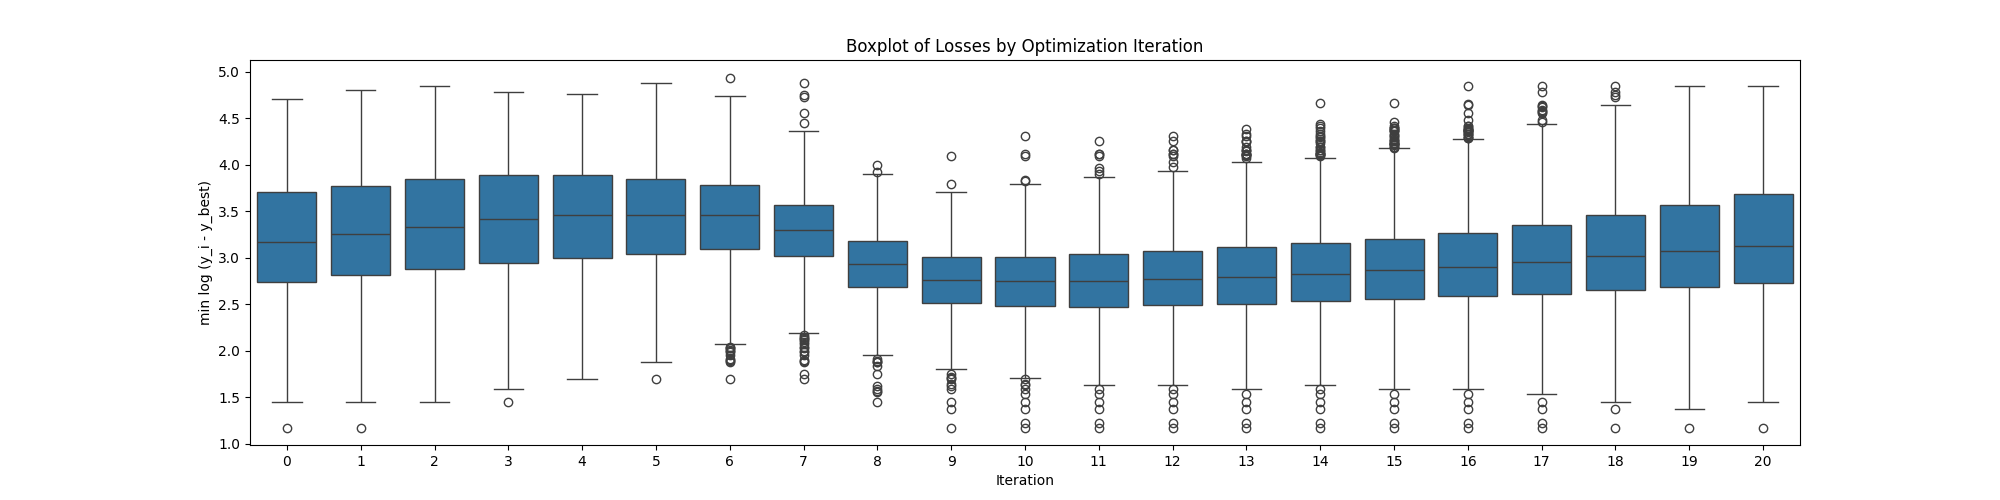
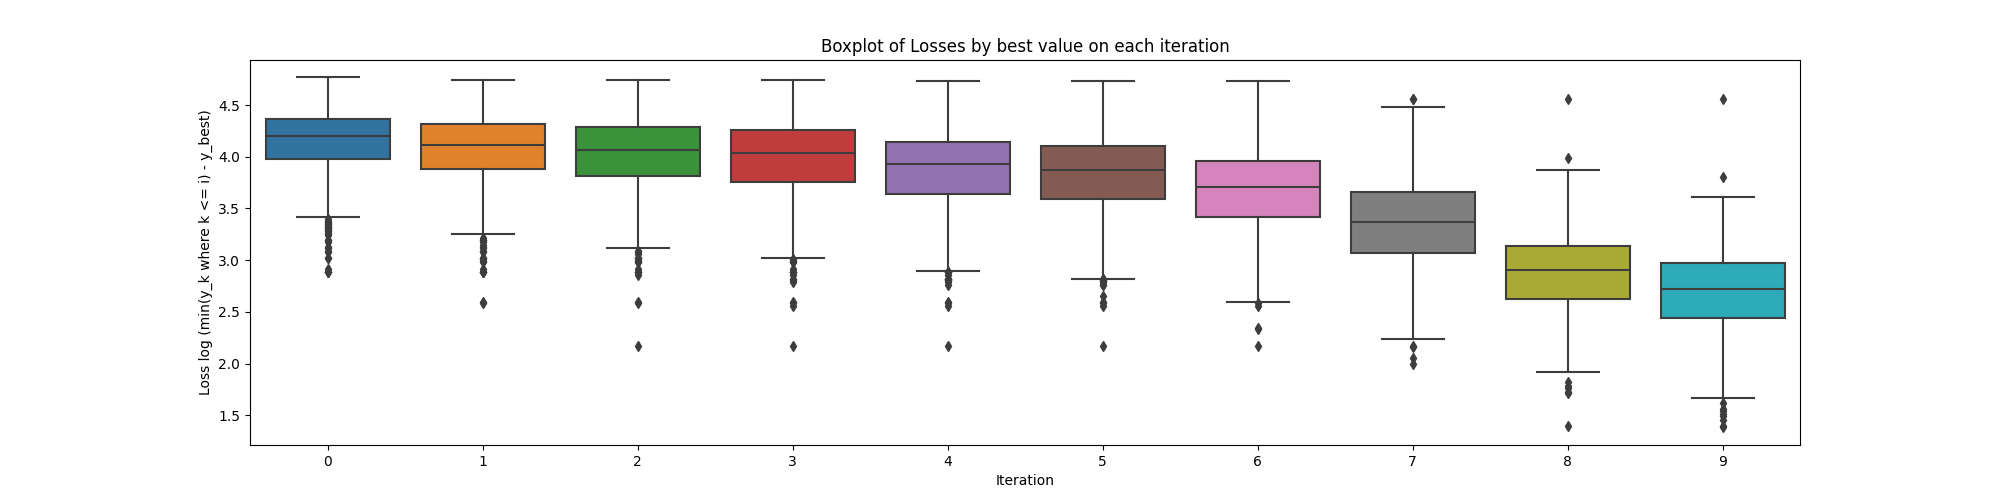
Night  version

diff --git a/functions.py b/functions.py
@@ -15,22 +15,9 @@ class Function(nn.Module):
         return self.forward(self.x_opt)
 
 
-# Abs sin
-class F1(nn.Module):
-    def __init__(self):
-        super().__init__()
-        self.x_opt = None
-
-    def forward(self, x):
-        return torch.sum(torch.abs(torch.sin(x - self.x_opt)), dim=1).unsqueeze(1)
-
-    def generate(self, batch_size: int, dimension: int) -> torch.Tensor:
-        self.x_opt = torch.rand(batch_size, dimension) * 20 - 10
-        self.x_opt = self.x_opt.to(device)
-        return self.forward(self.x_opt)
 
 
-# Sphere
+# Sphere + abs
 class F4(nn.Module):
     def __init__(self):
         super().__init__()
@@ -48,7 +35,58 @@ class F4(nn.Module):
         return self.forward(self.x_opt)
 
 
+# Abs
+class F5(nn.Module):
+    def __init__(self):
+        super().__init__()
+        self.x_opt = None
+        self.coefs = None
+
+    def forward(self, x):
+        scaled_diffs = torch.mul(torch.abs((x - self.x_opt)), self.coefs2)
+        return torch.sum(scaled_diffs, dim=1).unsqueeze(1)
+
+    def generate(self, batch_size: int, dimension: int) -> torch.Tensor:
+        self.x_opt = torch.rand(batch_size, dimension, device=device) * 100 - 50
+        self.coefs2 = torch.rand(batch_size, dimension, device=device) * 10
+        return self.forward(self.x_opt)
+
+
+# Sphere
+class F6(nn.Module):
+    def __init__(self):
+        super().__init__()
+        self.x_opt = None
+        self.coefs = None
+
+    def forward(self, x):
+        scaled_diffs = torch.mul((x - self.x_opt) ** 2, self.coefs1) + torch.mul(
+            torch.abs((x - self.x_opt)), self.coefs2
+        )
+        return torch.sum(scaled_diffs, dim=1).unsqueeze(1)
+
+    def generate(self, batch_size: int, dimension: int) -> torch.Tensor:
+        self.x_opt = torch.rand(batch_size, dimension, device=device) * 100 - 50
+        self.coefs1 = torch.rand(batch_size, dimension, device=device) * 10
+        self.coefs2 = torch.rand(batch_size, dimension, device=device) * 10
+        return self.forward(self.x_opt)
+
+
 # Not fixed for batches !!!
+
+# Abs sin
+class F1(nn.Module):
+    def __init__(self):
+        super().__init__()
+        self.x_opt = None
+
+    def forward(self, x):
+        return torch.sum(torch.abs(torch.sin(x - self.x_opt)), dim=1).unsqueeze(1)
+
+    def generate(self, batch_size: int, dimension: int) -> torch.Tensor:
+        self.x_opt = torch.rand(batch_size, dimension) * 20 - 10
+        self.x_opt = self.x_opt.to(device)
+        return self.forward(self.x_opt)
 
 # Small abs
 class F2(nn.Module):
@@ -82,37 +120,37 @@ class F3(nn.Module):
         return self.forward(self.x_opt)
 
 
-# Big abs
-class F5(nn.Module):
-    def __init__(self):
-        super().__init__()
-        self.x_opt = None
+# # Big abs
+# class F5(nn.Module):
+#     def __init__(self):
+#         super().__init__()
+#         self.x_opt = None
 
-    def forward(self, x):
-        return torch.sum(torch.abs(x - self.x_opt))
+#     def forward(self, x):
+#         return torch.sum(torch.abs(x - self.x_opt))
 
-    def generate(self, dimention: int) -> torch.Tensor:
-        self.x_opt = torch.rand(dimention) * 100 - 50
-        self.x_opt = self.x_opt.to(device)
-        return self.forward(self.x_opt)
+#     def generate(self, dimention: int) -> torch.Tensor:
+#         self.x_opt = torch.rand(dimention) * 100 - 50
+#         self.x_opt = self.x_opt.to(device)
+#         return self.forward(self.x_opt)
 
 
-# Rosenbrock
-class F6(nn.Module):
-    def __init__(self):
-        super().__init__()
-        self.x_opt = None
+# # Rosenbrock
+# class F6(nn.Module):
+#     def __init__(self):
+#         super().__init__()
+#         self.x_opt = None
 
-    def forward(self, x):
-        self.z = x - self.x_opt
-        return torch.sum(
-            100 * (self.z[:-1] ** 2 - self.z[1:]) ** 2 + (self.z[:-1] - 1) ** 2
-        ) - torch.tensor(1.0).to(device)
+#     def forward(self, x):
+#         self.z = x - self.x_opt
+#         return torch.sum(
+#             100 * (self.z[:-1] ** 2 - self.z[1:]) ** 2 + (self.z[:-1] - 1) ** 2
+#         ) - torch.tensor(1.0).to(device)
 
-    def generate(self, dimention: int) -> torch.Tensor:
-        self.x_opt = torch.rand(dimention) * 100 - 50
-        self.x_opt = self.x_opt.to(device)
-        return self.forward(self.x_opt)
+#     def generate(self, dimention: int) -> torch.Tensor:
+#         self.x_opt = torch.rand(dimention) * 100 - 50
+#         self.x_opt = self.x_opt.to(device)
+#         return self.forward(self.x_opt)
 
 
 # Rastrigin

diff --git a/main.py b/main.py
@@ -1,7 +1,7 @@
 import torch
 from torch import nn
 import matplotlib.pyplot as plt
-from functions import F4
+from functions import F4, F5
 from model import CustomLSTM
 from config import config
 import matplotlib.pyplot as plt
@@ -177,6 +177,7 @@ x_initial = torch.ones(test_batch_size, DIMENSION).to(device)
 
 x_axis = []
 y_axis = []
+best_y_axis = []
 
 # GRU.batch_size = 1
 
@@ -188,20 +189,23 @@ with torch.no_grad():
         # для сравнения включим первую (статичную) точку
         x_axis.append(0)
         y_axis.append((y - test_f_opt).mean().item())
+        best_y_axis.append((y - test_f_opt).mean().item())
 
         hidden = model.init_hidden(test_batch_size, device)
         c = None
-
+        best_y = y
         for iteration in range(1, opt_iterations + 1):
             new_x, hidden, c = model(x, y, hidden, c)
             new_y = test_fn(new_x)
 
             x = new_x
             y = new_y
+            best_y = min(best_y, y)
 
-            loss = (new_y - test_f_opt).mean()
+            loss = (new_y - test_f_opt)
             x_axis.append(iteration)
             y_axis.append(loss.item())
+            best_y_axis.append((best_y - test_f_opt).item())
 
 # боксплоты по итерациям
 
@@ -212,35 +216,57 @@ loss_df = pd.DataFrame(
     }
 )
 
-def min_of_previous(nums, window_length):
-    min_values = []
-    for i, num in enumerate(nums):
-        if i % window_length == 0:
-            min_so_far = float("inf")
-        min_so_far = min(min_so_far, num)
-        min_values.append(min_so_far)
-    return min_values
-
-y_axis_min = min_of_previous(nums=y_axis, window_length=opt_iterations)
-
 min_df = pd.DataFrame(
     {
         "Iteration": x_axis,
-        "min log (y_i - y_best)": torch.log10(torch.tensor(y_axis_min)),
+        "Loss log (min(y_k where k <= i) - y_best)": torch.log10(
+            torch.tensor(best_y_axis)
+        ),
     }
 )
+
+torch.rand(1, DIMENSION, device=device) * 100 - 50
 
 
 fig, ax = plt.subplots(figsize=(20, 5))
 gfg = sns.boxplot(x="Iteration", y="Loss log (y_i - y_best)", data=loss_df, ax=ax)
-plt.title("Boxplot of Losses by Optimization Iteration")
-plt.savefig(f"result_{DIMENSION}.png")
+plt.title("Boxplot of Losses by value on each iteration")
+plt.savefig(f"result_{DIMENSION}_module.png")
 plt.show()
 
 fig_min, ax_min = plt.subplots(figsize=(20, 5))
-gfg_min = sns.boxplot(x="Iteration", y="min log (y_i - y_best)", data=min_df, ax=ax_min)
-plt.title("Boxplot of Losses by Optimization Iteration")
-plt.savefig(f"result_{DIMENSION}_min.png")
+gfg_min = sns.boxplot(x="Iteration", y="Loss log (min(y_k where k <= i) - y_best)", data=min_df, ax=ax_min)
+plt.title("Boxplot of Losses by best value on each iteration")
+plt.savefig(f"result_{DIMENSION}_min_module.png")
 plt.show()
 
+# x_axis = []
+# best_y_axis = []
 
+# with torch.no_grad():
+#     for test_fn, test_f_opt in test_data:
+#         x = x_initial.clone().detach().to(device)
+#         y = test_fn(x)
+#         x_axis.append(0)
+#         best_y_axis.append((y - test_f_opt).mean().item())
+#         best_y = y
+#         for iteration in range(1, opt_iterations + 1):
+#             x = torch.rand(1, DIMENSION, device=device) * 100 - 50
+#             y = test_fn(x)
+#             best_y = min(best_y, y)
+#             x_axis.append(iteration)
+#             best_y_axis.append((best_y - test_f_opt).item())
+
+# min_df = pd.DataFrame(
+#     {
+#         "Iteration": x_axis,
+#         "Loss log (min(y_k where k <= i) - y_best)": torch.log10(
+#             torch.tensor(best_y_axis)
+#         ),
+#     }
+# )
+# fig_min, ax_min = plt.subplots(figsize=(20, 5))
+# gfg_min = sns.boxplot(x="Iteration", y="Loss log (min(y_k where k <= i) - y_best)", data=min_df, ax=ax_min)
+# plt.title("Boxplot of Losses by best value on each iteration")
+# plt.savefig(f"random_{DIMENSION}_hard.png")
+# plt.show()

diff --git a/config.py b/config.py
@@ -1,5 +1,5 @@
 config = {
-    "dimension": 6,
+    "dimension": 4,
     "lr": 3e-4,
     "batch": 1024,
     "hidden": 512,
